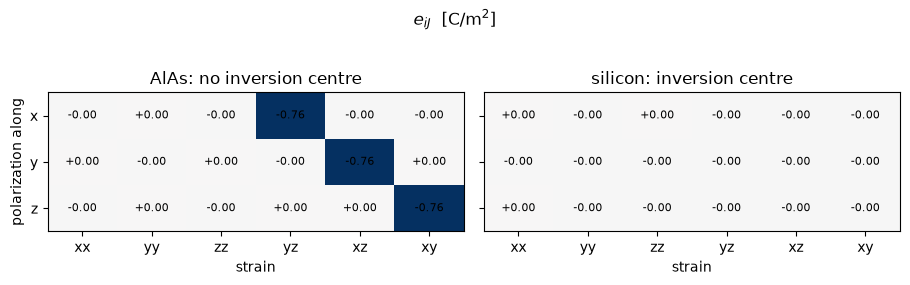
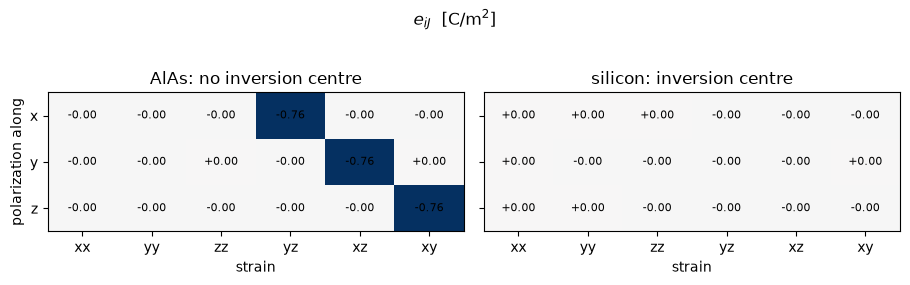
The fixture where it belongs, the piezo sizing, and the notebook's real mesh
The five measured offenders that lacked the autouse jax.clear_caches() now have
it: test_spinor_dielectric, test_dispersion, test_response, test_lsda_response
and test_gamma_only, with the count each produced on the node in its docstring
and the honest limit beside it, that a fixture with a yield fires between tests
and can do nothing for a single test that exhausts the mappings by itself. All
98 tests still collect and the fixture runs.

PERFORMANCE.md gains the piezo ladder's sizing, which is the first time this
quantity has been measured above one k-mesh: 13.8 GiB at 216 points, 28.3 at
512, 46.6 at 1000, about 40 MB a k-point, and 49.4 GiB for the ultrasoft cell
at eight reduced points. That sits badly with the section's existing claim that
the peak does not move with k_batch, since 4.2 GB at 64 points is 65 MB a point
and the same order as the slope; the likely reading is that the tape is per-k
and that a scan body stacks its residuals under grad, which is P73's own
lesson, but it is written as the hypothesis it is and piezo_us.sbatch is
measuring the A/B rather than the docstring being rewritten on a guess. The
Berry route is the opposite shape, 1.7 to 3.8 GiB for every rung and everything
in mappings, and the clear_caches dial is tabulated with two samples each,
19036 mappings against 3706 for between eleven and thirty-one per cent of the
time.

Notebook 28's headline said "none available" for the reference. There is one
[…]

diff --git a/tests/regression/test_spinor_dielectric.py b/tests/regression/test_spinor_dielectric.py
@@ -64,6 +64,7 @@ floor the identity is read against, not because P83 introduced it.
 from functools import lru_cache
 from pathlib import Path
 
+import jax
 import jax.numpy as jnp
 import numpy as np
 import pytest
@@ -73,6 +74,34 @@ from defumat.pseudo import read_upf
 from defumat.response.efield import dielectric_tensor
 from defumat.scf import run_scf
 from defumat.system import build_system
+
+
+@pytest.fixture(autouse=True)
+def _drop_compiled_code():
+    """``jax.clear_caches()`` between tests, for ``CLAUDE.md``'s reason.
+
+    Seventy of this file's failures on a cluster node were
+    ``INTERNAL: Failed to materialize symbols``, the second-worst count in the
+    whole ``slow`` set, and a spinor dielectric constant compiles the response
+    stack on a doubled space for every cell it visits.
+
+    The results stay cached and only the compiled executables are dropped, which
+    trades recompilation against both the resident set and the process's count
+    of virtual-memory mappings -- ``vm.max_map_count`` is 65530 on an ordinary
+    node and XLA maps every compiled executable anonymously. Measured on a
+    Berry-phase loop, one ``jax.clear_caches()`` released 8924 mappings where
+    ``gc.collect()`` released none, so this does reach them (``OPEN.md``
+    Part XIII item 2).
+
+    **What it cannot do is help a single test that exhausts them on its own**,
+    because a fixture with a ``yield`` fires between tests. Where one test is
+    the offender the clear has to go inside its loop, which is what
+    ``run_polarization``'s ``clear_caches`` does, or the test has to run in a
+    process of its own -- ``tools/run_regression.sh`` takes node IDs for that.
+    """
+    yield
+    jax.clear_caches()
+
 
 pytestmark = [pytest.mark.regression]
 

diff --git a/tests/regression/test_lsda_response.py b/tests/regression/test_lsda_response.py
@@ -47,6 +47,7 @@ shells with a real gap (0.438 Ry up, 0.517 Ry down, measured).
 from functools import lru_cache
 from pathlib import Path
 
+import jax
 import jax.numpy as jnp
 import numpy as np
 import pytest
@@ -60,6 +61,33 @@ from defumat.response.sternheimer import (
 )
 from defumat.scf import run_scf
 from defumat.system import build_system
+
+
+@pytest.fixture(autouse=True)
+def _drop_compiled_code():
+    """``jax.clear_caches()`` between tests, for ``CLAUDE.md``'s reason.
+
+    Twenty-six of this file's failures on a cluster node were
+    ``INTERNAL: Failed to materialize symbols``, and the spin-polarized branch
+    compiles a second kernel beside every unpolarized one it compares against.
+
+    The results stay cached and only the compiled executables are dropped, which
+    trades recompilation against both the resident set and the process's count
+    of virtual-memory mappings -- ``vm.max_map_count`` is 65530 on an ordinary
+    node and XLA maps every compiled executable anonymously. Measured on a
+    Berry-phase loop, one ``jax.clear_caches()`` released 8924 mappings where
+    ``gc.collect()`` released none, so this does reach them (``OPEN.md``
+    Part XIII item 2).
+
+    **What it cannot do is help a single test that exhausts them on its own**,
+    because a fixture with a ``yield`` fires between tests. Where one test is
+    the offender the clear has to go inside its loop, which is what
+    ``run_polarization``'s ``clear_caches`` does, or the test has to run in a
+    process of its own -- ``tools/run_regression.sh`` takes node IDs for that.
+    """
+    yield
+    jax.clear_caches()
+
 
 pytestmark = [pytest.mark.regression]
 

diff --git a/tests/regression/test_gamma_only.py b/tests/regression/test_gamma_only.py
@@ -18,11 +18,40 @@ and put a conjugate fill inside every consumer of a real field.
 
 import warnings
 
+import jax
 import numpy as np
 import pytest
 
 from defumat.calculator import Calculator
 from defumat.forces import compute_forces
+
+
+@pytest.fixture(autouse=True)
+def _drop_compiled_code():
+    """``jax.clear_caches()`` between tests, for ``CLAUDE.md``'s reason.
+
+    This file **aborted** on a cluster node rather than failing,
+    ``Fatal Python error: Aborted`` inside ``backend_compile_and_load``, which is
+    the same exhaustion reaching ``abort()`` inside LLVM: gamma-only storage runs
+    each cell twice, once halved and once whole, so every cell is two shapes.
+
+    The results stay cached and only the compiled executables are dropped, which
+    trades recompilation against both the resident set and the process's count
+    of virtual-memory mappings -- ``vm.max_map_count`` is 65530 on an ordinary
+    node and XLA maps every compiled executable anonymously. Measured on a
+    Berry-phase loop, one ``jax.clear_caches()`` released 8924 mappings where
+    ``gc.collect()`` released none, so this does reach them (``OPEN.md``
+    Part XIII item 2).
+
+    **What it cannot do is help a single test that exhausts them on its own**,
+    because a fixture with a ``yield`` fires between tests. Where one test is
+    the offender the clear has to go inside its loop, which is what
+    ``run_polarization``'s ``clear_caches`` does, or the test has to run in a
+    process of its own -- ``tools/run_regression.sh`` takes node IDs for that.
+    """
+    yield
+    jax.clear_caches()
+
 
 pytestmark = pytest.mark.regression
 

diff --git a/tests/regression/test_dispersion.py b/tests/regression/test_dispersion.py
@@ -51,6 +51,33 @@ from defumat.vdw.analytic import dispersion_force, dispersion_stress
 from defumat.workflows.relax import run_relax
 from tests.tolerances import ENERGY_TERM_RY, TOTAL_ENERGY_RY
 
+
+@pytest.fixture(autouse=True)
+def _drop_compiled_code():
+    """``jax.clear_caches()`` between tests, for ``CLAUDE.md``'s reason.
+
+    Sixty of this file's failures on a cluster node were
+    ``INTERNAL: Failed to materialize symbols``: a dispersion walks several
+    wavevectors and each one is its own set of shapes.
+
+    The results stay cached and only the compiled executables are dropped, which
+    trades recompilation against both the resident set and the process's count
+    of virtual-memory mappings -- ``vm.max_map_count`` is 65530 on an ordinary
+    node and XLA maps every compiled executable anonymously. Measured on a
+    Berry-phase loop, one ``jax.clear_caches()`` released 8924 mappings where
+    ``gc.collect()`` released none, so this does reach them (``OPEN.md``
+    Part XIII item 2).
+
+    **What it cannot do is help a single test that exhausts them on its own**,
+    because a fixture with a ``yield`` fires between tests. Where one test is
+    the offender the clear has to go inside its loop, which is what
+    ``run_polarization``'s ``clear_caches`` does, or the test has to run in a
+    process of its own -- ``tools/run_regression.sh`` takes node IDs for that.
+    """
+    yield
+    jax.clear_caches()
+
+
 pytestmark = [pytest.mark.regression, pytest.mark.slow]
 
 CASES = Path(__file__).resolve().parents[1] / "data" / "qe"

diff --git a/tests/regression/test_response.py b/tests/regression/test_response.py
@@ -44,6 +44,33 @@ from defumat.scf import run_scf
 from defumat.system import build_system
 from defumat.system.kpoints import KPoints
 
+
+@pytest.fixture(autouse=True)
+def _drop_compiled_code():
+    """``jax.clear_caches()`` between tests, for ``CLAUDE.md``'s reason.
+
+    Forty-seven of this file's failures on a cluster node were
+    ``INTERNAL: Failed to materialize symbols``, which is what a file that runs
+    the whole linear-response stack over several cells accumulates.
+
+    The results stay cached and only the compiled executables are dropped, which
+    trades recompilation against both the resident set and the process's count
+    of virtual-memory mappings -- ``vm.max_map_count`` is 65530 on an ordinary
+    node and XLA maps every compiled executable anonymously. Measured on a
+    Berry-phase loop, one ``jax.clear_caches()`` released 8924 mappings where
+    ``gc.collect()`` released none, so this does reach them (``OPEN.md``
+    Part XIII item 2).
+
+    **What it cannot do is help a single test that exhausts them on its own**,
+    because a fixture with a ``yield`` fires between tests. Where one test is
+    the offender the clear has to go inside its loop, which is what
+    ``run_polarization``'s ``clear_caches`` does, or the test has to run in a
+    process of its own -- ``tools/run_regression.sh`` takes node IDs for that.
+    """
+    yield
+    jax.clear_caches()
+
+
 pytestmark = [pytest.mark.regression, pytest.mark.slow]
 
 CASES = Path(__file__).resolve().parents[1] / "data" / "qe"

diff --git a/PERFORMANCE.md b/PERFORMANCE.md
@@ -4017,6 +4017,64 @@ one to reach for.
 with the strain response on the screened side, costs **25 s** for six more
 Sternheimer solves. It is in the slow test set and nowhere near the default path.
 
+**What it costs as the k-mesh is opened up, measured on Triton 2026-09-19**
+(`batch-milan`, 4 cores, `DEFUMAT_CACHE_DIR=off`, `MaxRSS` from `sacct`; the
+same AlAs cell, `nosym`, whole unshifted grids). The ladder was run to find out
+which of two routes to `e_14` was unconverged, and its by-product is the first
+sizing of this quantity above one k-mesh:
+
+| grid | k-points | peak RSS | the response route alone | job |
+|---|---|---|---|---|
+| `4 4 4` | 64 | 5.4 GiB | (with the difference) 15 min | `20336476_0` |
+| `6 6 6` | 216 | **13.8 GiB** | 131 s | `20337789_0` |
+| `8 8 8` | 512 | **28.3 GiB** | 240 s | `20337789_1` |
+| `10 10 10` | 1000 | **46.6 GiB** | 393 s | `20338160_0` |
+| ultrasoft PBE, `ecutrho = 200`, the *reduced* `4 4 4` | 8 | **49.4 GiB** | 810 s | `20336374_1` |
+
+**The peak is close to affine in `nk` and the slope is about 40 MB a k-point**:
+14.5 GiB over 296 points from `6 6 6` to `8 8 8`, 18.3 GiB over 488 from `8 8 8`
+to `10 10 10`. **That sits badly with the paragraph above**, which says the peak
+does not move with `k_batch` because "what the tape holds is not the k axis",
+and the arithmetic points the same way: 4.2 GB at 64 points is 65 MB a point,
+the same order as the slope. The likely reconciliation is that the tape *is*
+per-k -- `f_l(|k+G|)` is rebuilt at every k inside the differentiated function --
+and that `k_batch` does not shrink it because a `lax.map` or `lax.scan` body
+**stacks its residuals under `jax.grad`**, which is exactly P73's lesson about
+the augmentation table and the reason both of its scan bodies are rematted. If
+that is right, the dial cannot help here and `jax.remat` on the per-k body can.
+**It is a hypothesis and it is being measured** rather than written into the
+docstring: `tools/cluster/piezo_us.sbatch` runs the ultrasoft cell at 64 points
+with and without `k_batch = 1`, which is the A/B the claim needs, and the
+docstring keeps its 64-point statement until that lands.
+
+**The Berry-phase route is the opposite shape: nothing in memory and everything
+in mappings.** Every rung of the same ladder peaked between **1.7 and 3.8 GiB**,
+including the 36-string ultrasoft one, because the loop holds one string's
+occupied manifold and the number of strings never enters the resident set. What
+it does hold is virtual-memory *mappings*, about 480 a string, and two rungs
+died of that rather than of memory -- `20337789_4` and `_6` sat at 3.0 and 3.8
+GiB for two hours having already thrown `Failed to materialize symbols`. The
+dial is `run_polarization`'s `clear_caches`, and on a 36-string mesh
+(`nppstr = 11` over `6x6`, norm-conserving AlAs), one fresh process per
+configuration with the kernel cache off:
+
+| | `/proc/self/maps` lines | wall clock, two samples |
+|---|---|---|
+| `clear_caches=None` | **19036**, 19034 | 104.6, 104.0 s |
+| `clear_caches=32`, the default | **3706**, 3701 | 115.7, 136.2 s |
+
+**Five times fewer mappings, for somewhere between eleven and thirty-one per
+cent of the time.** Two samples each, and the honest reading is that the
+mapping count is reproducible to five parts in ten thousand while the cost of
+clearing is not: the unclamped pair agree to 0.6 per cent and the clamped pair
+differ by 18. The phase is bit-identical in every run, and periods of 8, 16 and
+32 all give the same count, because a clear drops whatever has accumulated
+since the last one. Clearing every *string* is what actually costs: a 16-string
+mesh reads 13.0 s unclamped against 36.6 s at period 1 in one process, so the
+default is the longest period that bounds the count rather than the
+safest-looking one.
+
+
 **The whole test file is 8 tests in 93 s** and the notebook is 33 s, both of
 which include their own SCF and field response.
 

diff --git a/notebooks/28_piezoelectricity.md b/notebooks/28_piezoelectricity.md
@@ -20,15 +20,27 @@ AlAs, which is the same structure with the two sublattices made inequivalent, is
 
 | | this notebook | reference |
 |---|---|---|
-| AlAs $e_{14}$, clamped-ion | **-0.764 C/m²** | none available: see below |
+| AlAs $e_{14}$, clamped-ion | **-0.764 C/m²** at this cell's mesh, **-0.670** converged | **-0.661**, a polarization difference |
 | silicon, every component | **< 10⁻⁵ C/m²** | zero, by inversion symmetry |
 | components $\bar{4}3m$ forbids | 2 × 10⁻¹⁴ of the scale | zero, and nothing imposes it |
 
-**The reference row is unusual and worth a sentence.** Quantum ESPRESSO does not compute a
+**The reference is unusual and worth a sentence.** Quantum ESPRESSO does not compute a
 piezoelectric tensor at all, and the one established code that does gets it from a finite
 difference of the polarization over a separate self-consistent calculation for every strain.
-So the numbers below are checked against symmetry and against each other rather than against
-another code's output.
+That is the reference quoted above, and it is worth trusting precisely because it shares no
+machinery with what this notebook computes: no response solver, no derivative, just two
+converged ground states and the Berry phase of each.
+
+**Read the first row twice, because it is the useful thing in this notebook.** The $-0.764$
+is what the cell below prints, on the $4\times4\times4$ k-mesh the input file asks for, and
+it is thirteen per cent away from the answer. Going to $6^3$, $8^3$ and $10^3$ gives
+$-0.687$, $-0.673$ and $-0.670$, and the polarization difference sits at $-0.661$ throughout,
+moving by less than one per cent whatever it is asked to do. So the mesh that converges the
+*energy* of this crystal does not converge its piezoelectric constant, and the reason is
+visible in the definition at the top: $e_{14}$ is a mixed derivative of an energy that is
+already stationary in the density, so the variational protection that makes a total energy
+forgiving about the zone sum is simply absent. **Converge the mesh on this quantity, not on
+the ground state**, whenever you want a piezoelectric constant to a few per cent.
 
 
 ```python
@@ -78,11 +90,11 @@ print(f"\nlargest component the crystal class forbids: "
 ```
 
     e_iJ  [C/m2]             xx       yy       zz       yz       xz       xy
-      P along x         -0.0000   0.0000  -0.0000  -0.7638  -0.0000  -0.0000
-      P along y          0.0000  -0.0000   0.0000  -0.0000  -0.7638   0.0000
-      P along z         -0.0000   0.0000  -0.0000   0.0000   0.0000  -0.7638
+      P along x         -0.0000  -0.0000  -0.0000  -0.7638  -0.0000  -0.0000
+      P along y         -0.0000  -0.0000   0.0000  -0.0000  -0.7638   0.0000
+      P along z         -0.0000  -0.0000  -0.0000  -0.0000  -0.0000  -0.7638
     
-    largest component the crystal class forbids: 2.2e-14 of e_14
+    largest component the crystal class forbids: 3.2e-14 of e_14
 
 
 ## 2. Silicon has none, and that is the point

diff --git a/notebooks/README.md b/notebooks/README.md
@@ -264,6 +264,13 @@ fails over that ceiling, so the table below is a by-product of keeping the outpu
 true rather than something anyone has to remember to do. Wall clock on one
 workstation core, slowest last:
 
+**One entry was re-measured on 2026-09-19 and had drifted**: `28` is **90 s**
+here against the 33 in this table, on a re-execution where nothing in its code
+cells changed, only its prose. A cold run of the same notebook took 130 s, so
+the 90 is the warm figure and the two bracket whatever the 33 was measured
+under. Nothing else in the table has been re-measured, so treat the rest as the
+order of magnitude it is rather than as current to the second.
+
 | | s | | s | | s | | s |
 |---|---|---|---|---|---|---|---|
 | `01` | 5 | `06` | 23 | `34` | 40 | `08` | 171 |
@@ -273,7 +280,7 @@ workstation core, slowest last:
 | `03` | 10 | `21` | 30 | `45` | 85 | `17` | 203 |
 | `05` | 10 | `15` | 31 | `14` | 89 | `38` | 242 |
 | `04` | 122 | `24` | 31 | `26` | 109 | `19` | 243 |
-| `22` | 12 | `28` | 33 | `33` | 115 | `36` | 244 |
+| `22` | 12 | `28` | 90 | `33` | 115 | `36` | 244 |
 | `42` | 13 | `31` | 34 | `13` | 131 | `35` | 276 |
 | `16` | 18 | `40` | 34 | `30` | 232 | `20` | 282 |
 | `00` | 22 | `23` | 35 | `39` | 151 |  |  |
